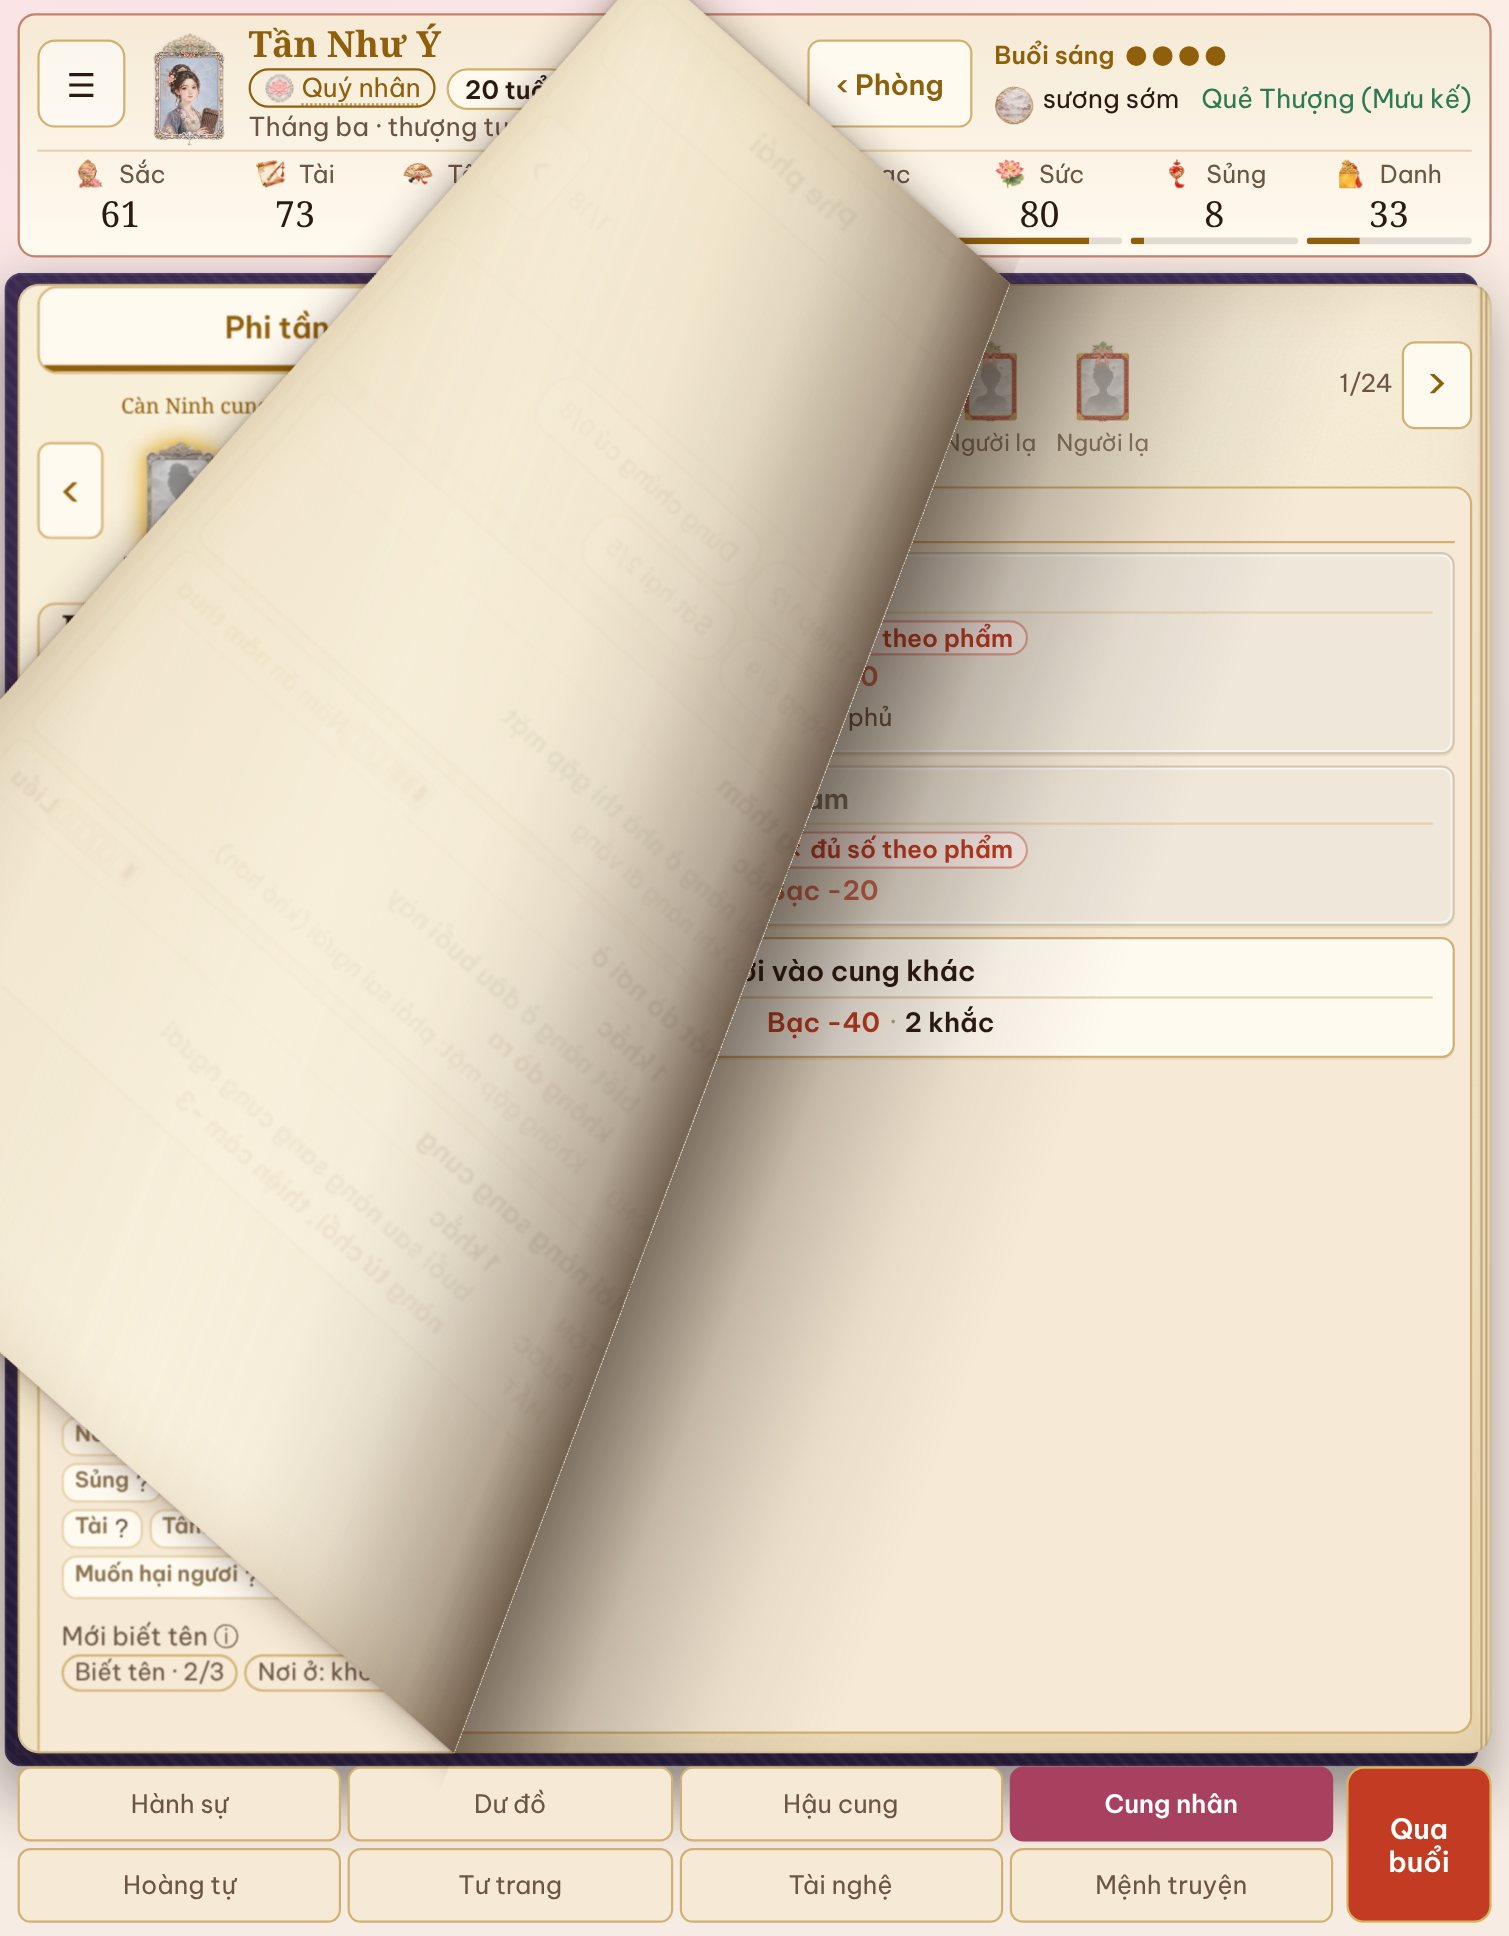
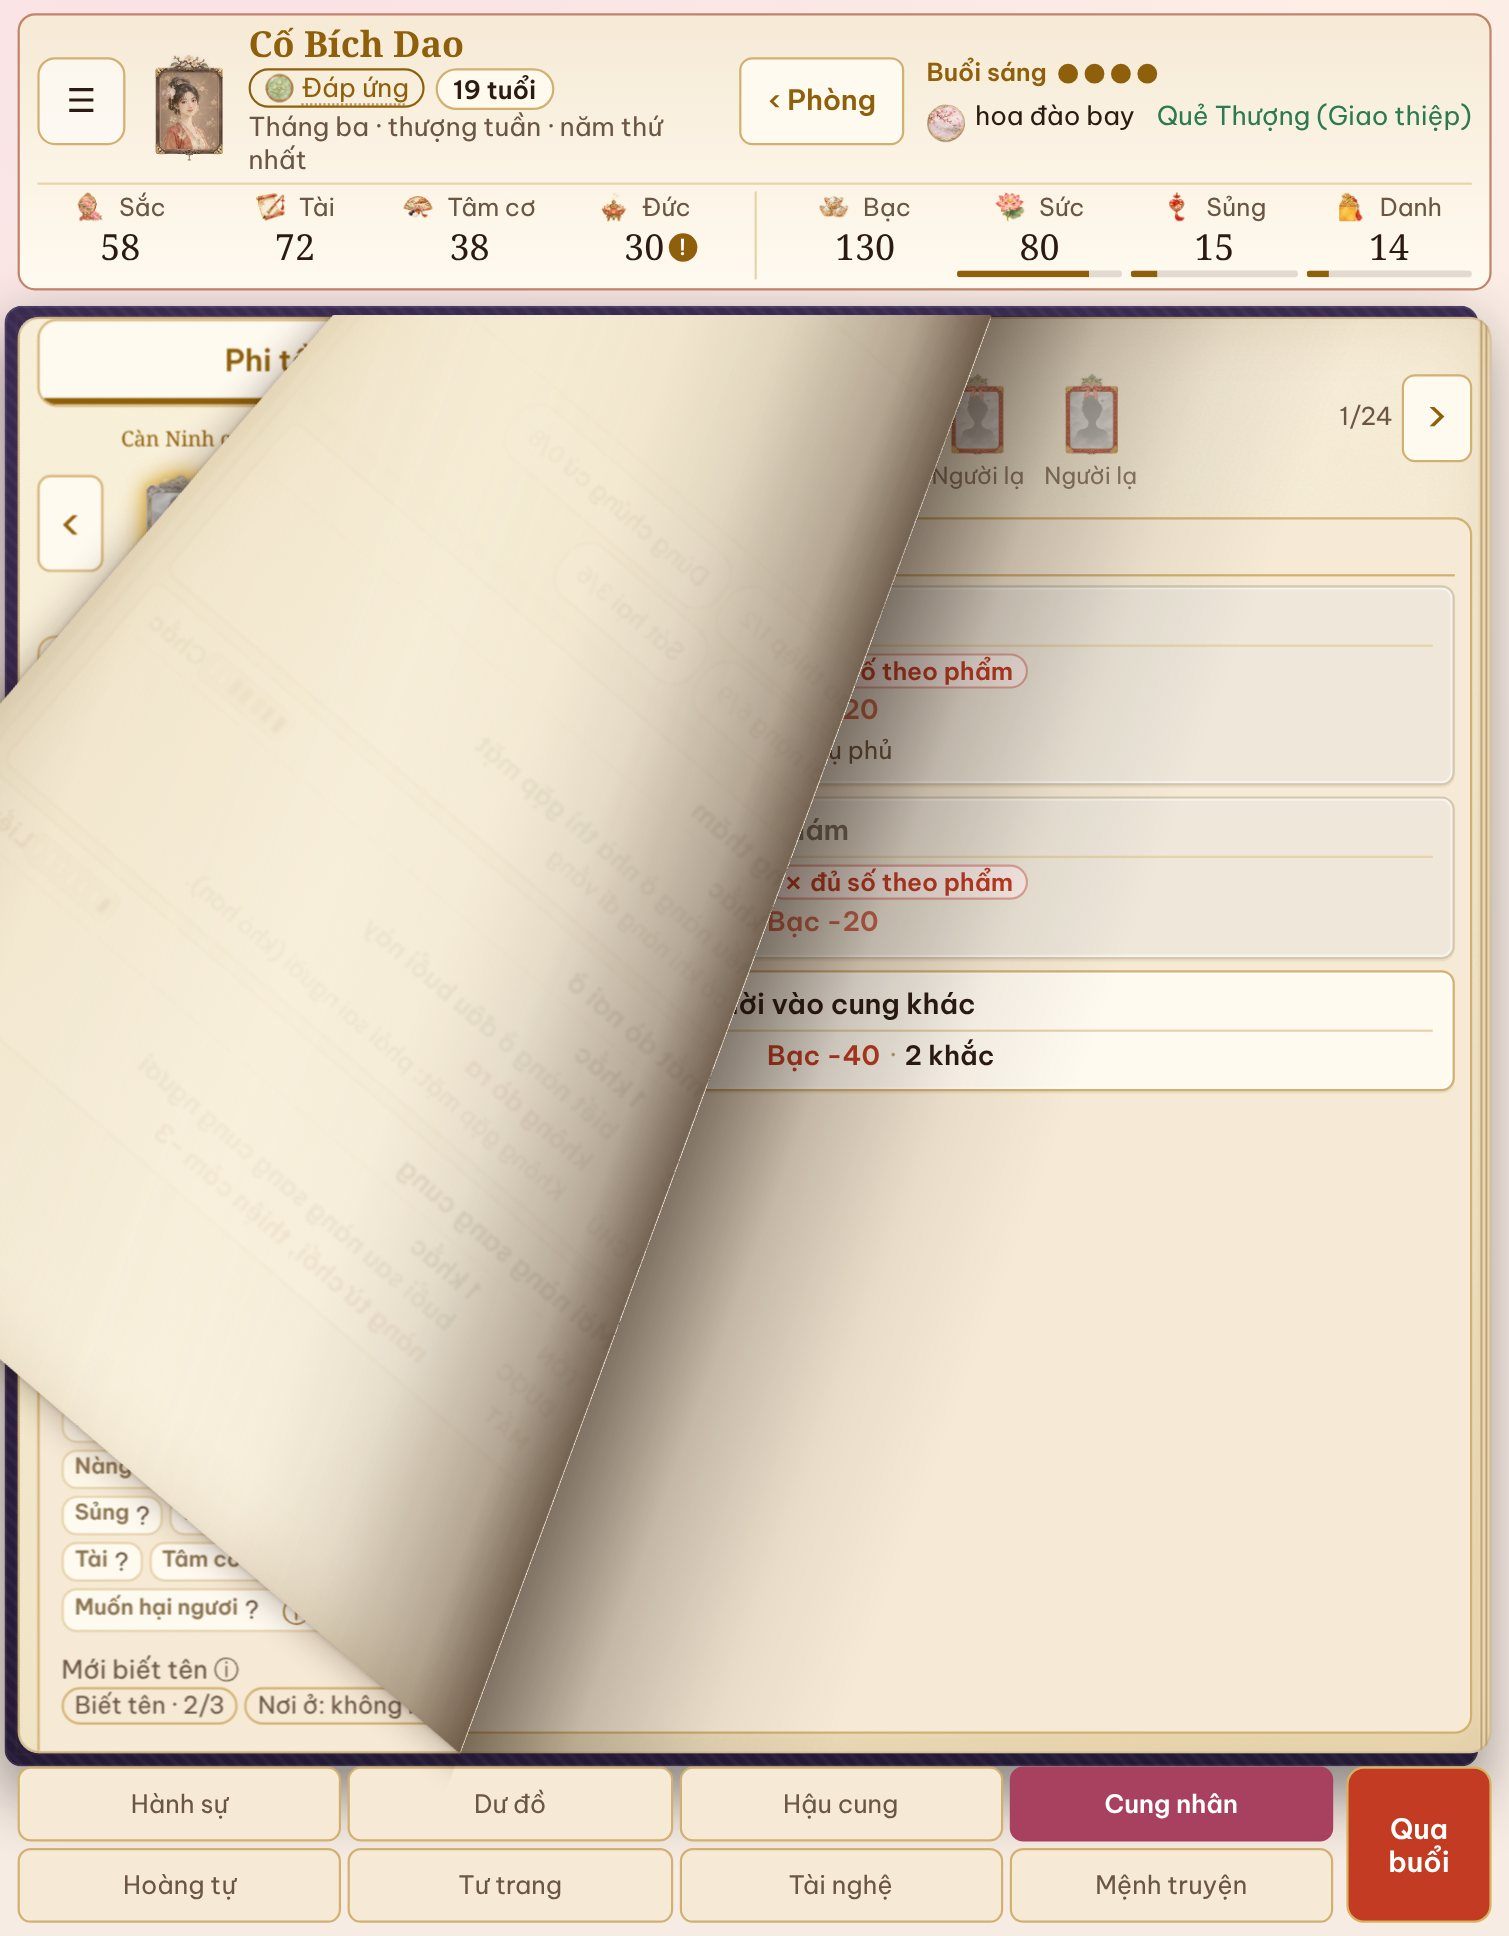
Lật tab: tờ giấy cong không vượt lên thanh trên (cắt ở mép trên khung trang)
Claude-Session: https://claude.ai/code/session_01V1ZZH4TC8cGXxdYrwHpFqQ

Changed region(s): [[0.0, 0.0, 0.9967, 0.4029], [0.4983, 0.4029, 0.9655, 0.5888], [0.0311, 0.7128, 0.2803, 0.8988]]

diff --git a/dev/build/jbook.js b/dev/build/jbook.js
@@ -292,7 +292,9 @@ html .game .kleather>.maptools>.past,html .game .kleather>.maptools>.fest{displa
 .kl-unroll>.kl-l{animation:kl-rl .62s cubic-bezier(.25,.7,.25,1)}.kl-unroll>.kl-r{animation:kl-rr .62s cubic-bezier(.25,.7,.25,1)}
 @keyframes kl-un{from{clip-path:polygon(48.51% 0.36%,48.69% 0.72%,48.9% 0.59%,49.13% 0.06%,49.36% 0.04%,49.57% 0.08%,49.76% 0.47%,50.02% 0.14%,50.2% 0.69%,50.46% 0.63%,50.64% 1.07%,50.83% 0.94%,51.06% 0.16%,51.26% 0.34%,51.48% 0.5%,51.5% 7.31%,51.48% 14.03%,51.49% 20.55%,51.5% 27.98%,51.48% 35.57%,51.49% 43.03%,51.49% 49.6%,51.48% 57.54%,51.49% 64.43%,51.49% 72.18%,51.48% 78.15%,51.48% 84.95%,51.49% 93.37%,51.49% 99.83%,51.29% 99.96%,51.08% 99.16%,50.86% 99.04%,50.63% 99.24%,50.43% 99.36%,50.21% 99.08%,50.03% 99.48%,49.8% 99.93%,49.58% 99.29%,49.39% 99.1%,49.13% 99.58%,48.94% 99.98%,48.71% 99.82%,48.5% 99.5%,48.5% 93.39%,48.5% 85.21%,48.51% 79.31%,48.5% 71.33%,48.51% 65.05%,48.52% 57.87%,48.51% 49.83%,48.51% 43.63%,48.52% 35.02%,48.5% 28.04%,48.51% 21.4%,48.51% 13.81%,48.5% 6.98%)}to{clip-path:polygon(0.4% 0.36%,6.44% 0.72%,13.43% 0.59%,21.16% 0.06%,28.59% 0.04%,35.58% 0.08%,42.04% 0.47%,50.65% 0.14%,56.59% 0.69%,65.18% 0.63%,71.22% 1.07%,77.66% 0.94%,85.29% 0.16%,92.09% 0.34%,99.35% 0.5%,99.86% 7.31%,99.49% 14.03%,99.56% 20.55%,99.95% 27.98%,99.46% 35.57%,99.75% 43.03%,99.64% 49.6%,99.36% 57.54%,99.8% 64.43%,99.58% 72.18%,99.42% 78.15%,99.22% 84.95%,99.67% 93.37%,99.6% 99.83%,92.84% 99.96%,86.05% 99.16%,78.72% 99.04%,71.06% 99.24%,64.47% 99.36%,57.06% 99.08%,50.89% 99.48%,43.19% 99.93%,36.12% 99.29%,29.56% 99.1%,21.0% 99.58%,14.62% 99.98%,7.07% 99.82%,0.09% 99.5%,0.05% 93.39%,0.1% 85.21%,0.31% 79.31%,0.06% 71.33%,0.44% 65.05%,0.66% 57.87%,0.22% 49.83%,0.29% 43.63%,0.77% 35.02%,0.14% 28.04%,0.19% 21.4%,0.47% 13.81%,0% 6.98%)}}
 @keyframes kl-rl{from{left:calc(50% - 16px)}to{left:2px}}@keyframes kl-rr{from{right:calc(50% - 16px)}to{right:2px}}
-.kcl-host{position:fixed;z-index:40;pointer-events:none}
+.kcl-host{position:fixed;z-index:40;pointer-events:none;
+ /* the turning page never rises above the page area (stays under the top bar); it may still swing out sideways over the left page */
+ clip-path:polygon(-6000px 0,6000px 0,6000px 6000px,-6000px 6000px)}
 .kcl-in{animation:kcl-in .3s ease-out}@keyframes kcl-in{from{opacity:0}to{opacity:1}}
 @media (prefers-reduced-motion:reduce){.kleather.kl-unroll,.kl-unroll>.kl-roll,.kcl-in{animation:none}}
 /* ===== the live game as an open BOOK (owner 11/14 approval, 11/15 priority) — kitBookLive =====
